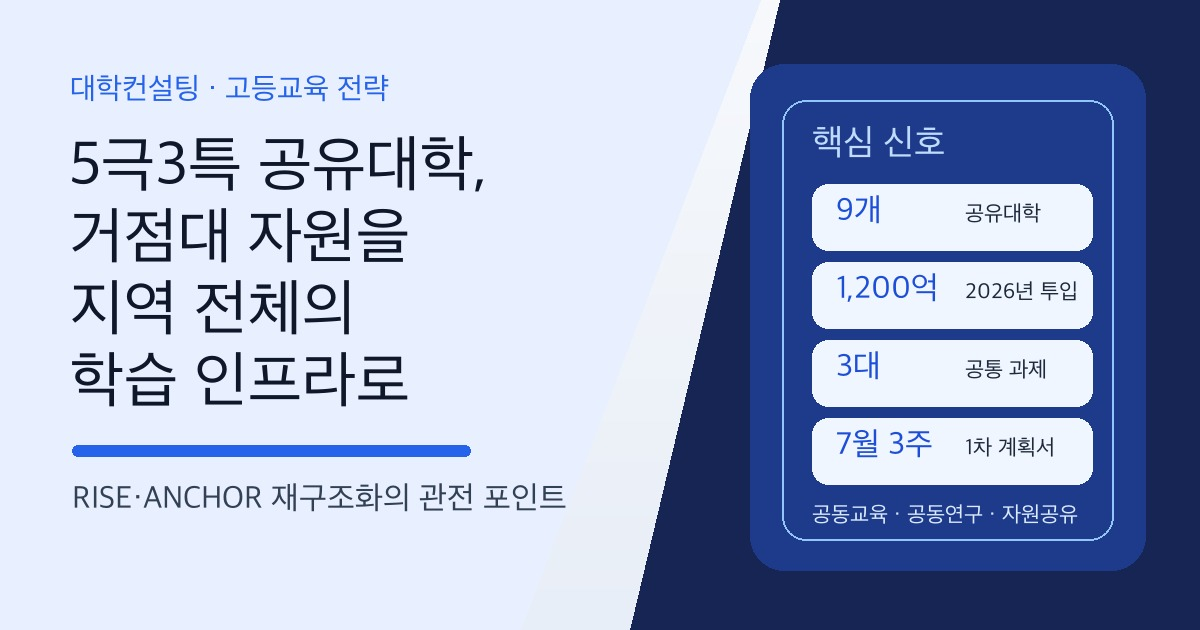
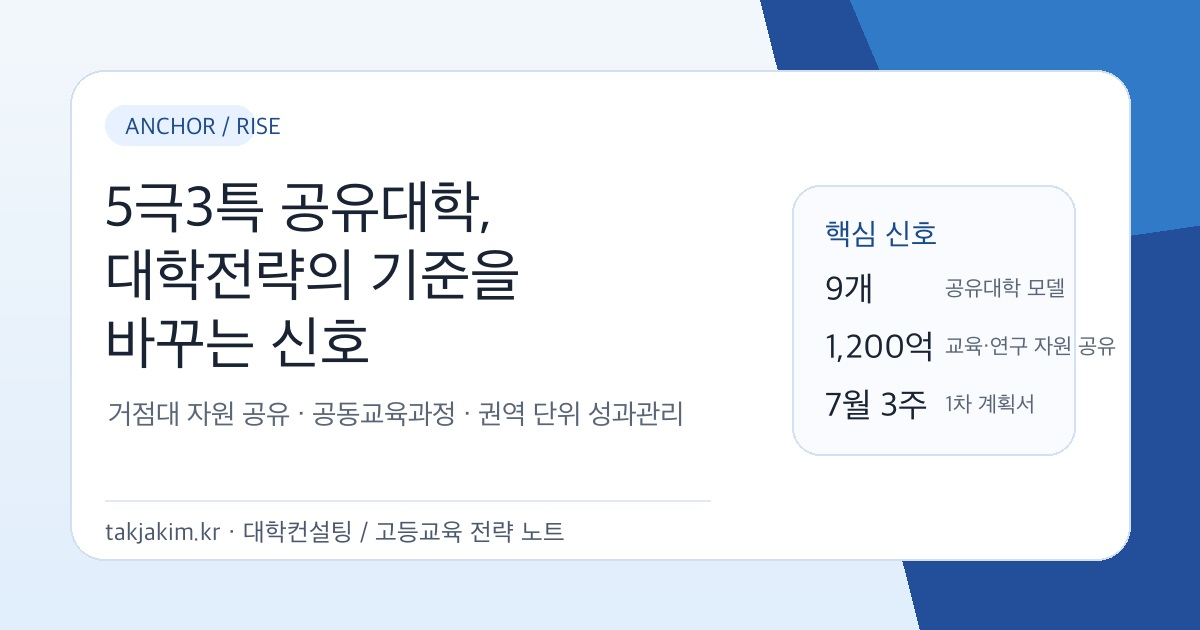
Publish 5극3특 공유대학 전략 노트

diff --git a/_notes/education/2026-07-12-anchor-shared-university-operating-model.md b/_notes/education/2026-07-12-anchor-shared-university-operating-model.md
@@ -1,0 +1,69 @@
+---
+title: "5극3특 공유대학: 거점대 자원 공유가 대학전략의 기준을 바꾼다"
+date: 2026-07-12 08:11:00 +0900
+last_modified_at: 2026-07-12 08:11:00 +0900
+categories: [education]
+type: note
+label: POLICY
+tags: [대학컨설팅, 고등교육컨설팅, 경영컨설팅, 대학전략, 대학경영, 대학혁신, RISE, ANCHOR, 공유대학, 지역혁신, 산학협력, 교육과정]
+description: "교육부의 5극3특 공유대학과 초광역 성장엔진 인재육성 추진을 대학컨설팅 관점에서 읽는다. 핵심은 예산 규모보다 거점대 자원 공유, 공동교육과정, 권역 단위 성과환류를 실제 운영모델로 만들 수 있는가다."
+excerpt: "5극3특 공유대학은 지방대 지원사업 하나가 아니라, 대학의 자원을 학교 울타리 밖으로 재배치하는 실험이다. 대학전략의 질문은 누가 주관하느냐보다 학생이 어떤 교육과 연구 자원에 접근하고, 그 성과가 지역산업과 정주 경로로 이어지는가다."
+image: /assets/images/education/anchor-shared-university-operating-model-2026-og.jpg
+permalink: /education/anchor-shared-university-operating-model/
+---
+
+<figure class="note-cover-figure note-cover">
+  <img src="/assets/images/education/anchor-shared-university-operating-model-2026-og.jpg" alt="5극3특 공유대학 대학전략 SEO 이미지">
+  <figcaption>자체 제작 전략 이미지. 5극3특 공유대학은 거점대 자원 공유와 권역 단위 성과관리의 운영모델로 읽어야 한다.</figcaption>
+</figure>
+
+## 오늘의 핵심
+
+교육부가 6월 23일 발표한 `5극3특 공유대학`과 `초광역 성장엔진 인재육성` 계획이 7월 들어 구체적 실행 국면으로 들어가고 있다. 한국대학신문은 7월 6일 후속 기획에서 이 흐름을 [[앵커|ANCHOR(RISE)]] 개편의 핵심 축으로 짚었다. 골자는 분명하다. 기존 시·도 단위 [[RISE]] 체계를 5대 초광역권과 3개 특별자치도라는 산업·경제권 단위로 확장하고, 권역 안의 거점국립대·사립대·전문대가 교육과정, 연구시설, 장비, 창업 인프라를 공유하게 하겠다는 것이다.[^unn594363]
+
+숫자도 작지 않다. 교육부 계획에 따르면 `5극3특 공유대학`에는 9개 공유대학 모델 구축을 위해 1,200억 원, `초광역 성장엔진 인재육성`에는 800억 원이 투입된다. 5극3특 공유대학은 7월까지 1차 추진계획을 제출받고, 협의·컨설팅을 거쳐 8월 최종 계획을 확정한 뒤 9월부터 본격 가동하는 일정으로 설명됐다.[^unn593807]
+
+하지만 대학컨설팅 관점에서 오늘 볼 지점은 “예산 2,000억”이라는 제목이 아니다. 더 중요한 질문은 이것이다. **거점대가 가진 좋은 자원이 실제로 권역 학생의 학습경로와 지역산업의 인재 수요로 이동할 수 있는가.** 이 질문에 답하지 못하면 공유대학은 이름만 공동이고, 실제로는 각 대학의 기존 사업을 묶어 놓은 행정 패키지에 그칠 수 있다.
+
+## 왜 대학전략 관점에서 중요한가
+
+이번 정책은 대학경영의 기준을 조용히 바꾼다. 지금까지 대학의 경쟁력은 대체로 “우리 학교 안에 무엇을 갖고 있는가”로 설명됐다. 좋은 교수, 좋은 실험실, 좋은 장비, 좋은 취업처, 좋은 비교과 프로그램을 학교 내부에 얼마나 보유하고 있는지가 핵심이었다.
+
+그런데 [[공유대학]] 모델은 질문을 바꾼다. 앞으로는 “우리 학교가 무엇을 갖고 있는가”만으로 부족하다. **우리 대학의 학생이 권역 안의 어떤 교육·연구·산업 자원에 접근할 수 있는가**, 그리고 **우리 대학의 자원을 다른 대학 학생과 지역기업이 어떤 방식으로 활용할 수 있는가**가 중요해진다.
+
+이 변화는 특히 지역대학에 크다. 학령인구 감소와 수도권 집중 속에서 모든 대학이 모든 전공, 모든 장비, 모든 산학 네트워크를 독자적으로 갖추기는 어렵다. 따라서 권역 단위로 자원을 묶는 방향 자체는 타당하다. 문제는 묶는 방식이다. 단순 협약서, 공동 홈페이지, 행사성 교류로는 학생 경험이 바뀌지 않는다. 공유대학이 전략이 되려면 수강신청, 학점인정, 이동·숙박, 장비예약, 안전관리, 기업 프로젝트, 졸업요건, 취업연계까지 하나의 운영 흐름으로 설계되어야 한다.
+
+## 정책·교육과정·지역연계 포인트
+
+첫째, 5극3특 공유대학은 [[교육과정 개편|교육과정]]의 문제다. 거점대의 우수 강의를 온라인으로 열어두는 것만으로는 부족하다. 권역 학생이 실제로 들을 수 있는 시간표, 선수과목, 학점교류 규칙, 평가방식, 실험·실습 접근권이 맞아야 한다. 특히 전략산업 분야라면 강의보다 프로젝트가 중요하다. 반도체, 바이오, 모빌리티, 해양, 에너지, 로봇 같은 분야는 교과목 몇 개보다 캡스톤, 실험실, 현장실습, 기업 멘토링이 연결될 때 학생의 역량으로 남는다.
+
+둘째, [[산학협력]]은 권역 단위로 재정의되어야 한다. 기업 입장에서는 특정 대학 하나보다 권역 전체 인재풀과 연구자원을 보는 편이 더 실용적일 수 있다. 공유대학이 제대로 작동하면 기업은 여러 대학을 따로 접촉하지 않고도 공동 교육과정, 채용연계 프로젝트, 실증 과제, 연구장비 활용을 한 번에 설계할 수 있다. 반대로 대학이 자기 학교 실적만 챙기면 기업은 다시 행정 피로를 느낀다.
+
+셋째, [[성과환류]] 설계가 핵심이다. 공유대학은 여러 주체가 참여하기 때문에 성과가 쉽게 흐려진다. 누가 학생을 모집했는가, 누가 교육을 제공했는가, 어떤 기업 프로젝트가 실제 취업이나 창업으로 이어졌는가, 학생이 권역 안에 남았는가를 추적해야 한다. 이때 단순 취업률보다 [[정주율]], 권역 내 현장실습 지속률, 공동교과 이수 후 전공심화 경로, 기업 재참여율 같은 [[실행지표]]가 필요하다.
+
+넷째, 거점국립대의 역할은 “상위 대학의 시혜”가 아니라 플랫폼 운영이어야 한다. 좋은 장비와 연구실을 가진 대학이 중심을 잡는 것은 자연스럽다. 다만 다른 대학을 하위 파트너처럼 다루면 공유대학은 오래 가지 못한다. 전문대는 실무교육과 현장 밀착성이 강하고, 사립대는 특성화 전공과 학생지원 노하우를 갖고 있다. 각 대학의 강점을 권역 운영모델 안에서 역할로 번역해야 한다.
+
+## 학생·학부모가 확인할 것
+
+학생과 학부모에게도 이 이슈는 “어느 대학이 주관대학인가”만 볼 일이 아니다. 주관대학 이름보다 중요한 것은 내가 실제로 접근할 수 있는 경로다.
+
+먼저 관심 전공에서 공유대학 교과목이 졸업학점으로 인정되는지 확인해야 한다. 좋은 프로그램이 있어도 전공선택이나 일반선택으로만 인정되면 학생은 참여를 망설인다. 둘째, 실험·실습이나 기업 프로젝트가 단순 체험인지, 포트폴리오로 남는 산출물을 만드는지 봐야 한다. 셋째, 권역 안 이동 문제가 해결되어 있는지도 중요하다. 기숙사, 교통비, 집중이수제, 방학 프로그램 같은 설계가 없으면 지역 간 공유는 명목상 제도에 그친다.
+
+또 하나는 [[학생 포트폴리오]]다. 공유대학에서 들은 과목, 참여한 프로젝트, 사용한 장비, 만난 기업, 만든 결과물이 학생의 이력서와 면접에서 설명 가능한 이야기로 묶여야 한다. 학생에게 필요한 것은 “사업에 참여했다”는 문장이 아니라 “어떤 문제를 어떤 팀과 어떤 데이터·장비로 풀었는가”라는 증거다.
+
+## 대학컨설팅 관점에서 보는 전략
+
+필자의 대학컨설팅 관점에서 이번 5극3특 공유대학은 세 가지 전략 과제를 던진다.
+
+첫째, 대학은 자기 자원을 목록이 아니라 서비스로 정의해야 한다. 연구장비, 강의, 실습실, 창업공간을 “보유 자산”으로만 적으면 공유가 어렵다. 누가, 언제, 어떤 조건으로, 어떤 안전교육을 받고, 어떤 비용 구조로 쓸 수 있는지까지 정리해야 다른 대학 학생과 기업이 접근할 수 있다. 이것은 시설관리의 문제가 아니라 [[대학 데이터 거버넌스]]의 문제이기도 하다.
+
+둘째, 권역은 공동 브랜드보다 공동 운영규칙을 먼저 만들어야 한다. 공유대학 명칭과 로고는 금방 만들 수 있다. 어려운 것은 학사일정, 학점인정, 강의 품질관리, 학생지원, 실습 안전, 기업 프로젝트 지식재산권, 성과 데이터 공유 규칙이다. 이 규칙이 없으면 첫해에는 열심히 움직여도 둘째 해부터 현장이 지친다.
+
+셋째, [[지역정주]]를 취업률의 부속지표로 보면 안 된다. 지역에 남는다는 것은 단지 주소지가 남아 있다는 뜻이 아니다. 학생이 권역 산업 안에서 성장 가능성을 보고, 일자리와 학습기회와 생활 기반을 함께 발견해야 한다. 따라서 공유대학은 교육부 사업계획서 안에서만 운영될 것이 아니라 지자체 산업정책, 기업 인력계획, 청년 주거·문화 정책과 연결되어야 한다.
+
+결국 5극3특 공유대학의 성공은 돈의 크기보다 운영의 정밀도에 달려 있다. 권역이 공동으로 학생을 키운다는 말은 멋지지만, 학생 입장에서는 매 학기 수강신청 화면, 버스와 기숙사, 실습실 출입, 프로젝트 피드백, 취업 면접에서 체감된다. 그 체감 지점까지 내려가는 대학이 이번 정책을 자기 전략으로 만들 것이다.
+
+## 확인한 출처
+
+[^unn594363]: 한국대학신문, 「[앵커 개편 뭐가 달라지나①] “거점대 자원 지역 전체로”… 5극3특 공유대학 닻 올린다」, 2026.07.06. <https://news.unn.net/news/articleView.html?idxno=594363>
+[^unn593807]: 한국대학신문, 「지방대 살릴 ‘5극3특 공유대학’… 교육부 2000억 투입」, 2026.06.23. <https://news.unn.net/news/articleView.html?idxno=593807>